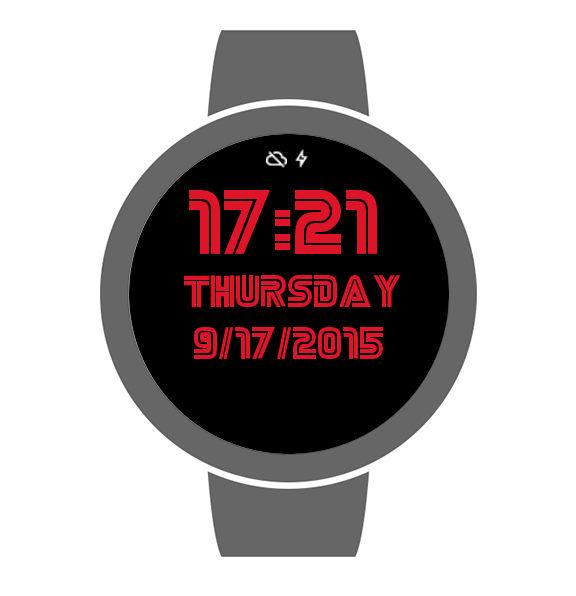
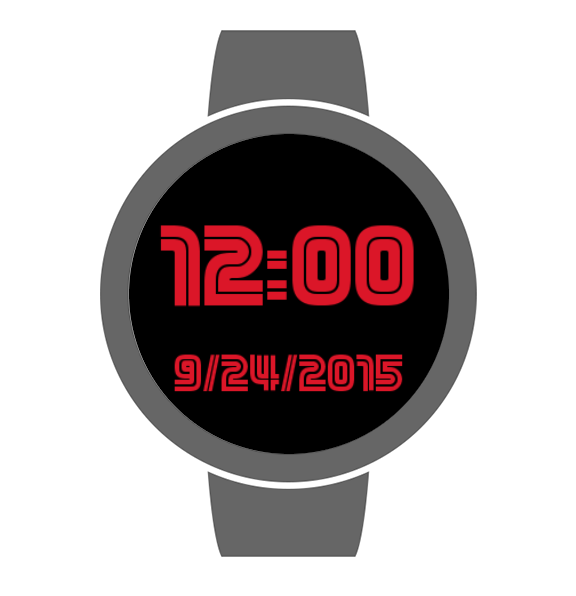
Fix time/date alignment Implement battery optimization by coloring date black and time white when in ambient mode Update screenshots & preview screens

Changed region(s): [[0.2812, 0.302, 0.7188, 0.5134], [0.2812, 0.5436, 0.7188, 0.6644], [0.4688, 0.2416, 0.5312, 0.302]]

diff --git a/app/src/main/java/com/trevorhalvorson/hellofriendwatchface/HelloFriendWatchFace.java b/app/src/main/java/com/trevorhalvorson/hellofriendwatchface/HelloFriendWatchFace.java
@@ -22,6 +22,7 @@ import android.content.Intent;
 import android.content.IntentFilter;
 import android.content.res.Resources;
 import android.graphics.Canvas;
+import android.graphics.Color;
 import android.graphics.Paint;
 import android.graphics.Rect;
 import android.graphics.Typeface;
@@ -102,15 +103,15 @@ public class HelloFriendWatchFace extends CanvasWatchFaceService {
         SimpleDateFormat mDayOfWeekFormat;
         java.text.DateFormat mDateFormat;
 
-        float mXOffset;
-        float mYOffset;
-        float mLineHeight;
+        float mTimeOffset;
+        float mDateOffset;
 
         /**
          * Whether the display supports fewer bits for each color in ambient mode. When true, we
          * disable anti-aliasing in ambient mode.
          */
         boolean mLowBitAmbient;
+        boolean mBurnInProtection;
 
         @Override
         public void onCreate(SurfaceHolder holder) {
@@ -125,8 +126,8 @@ public class HelloFriendWatchFace extends CanvasWatchFaceService {
                     .setShowSystemUiTime(false)
                     .build());
             Resources resources = HelloFriendWatchFace.this.getResources();
-            mYOffset = resources.getDimension(R.dimen.digital_y_offset);
-            mLineHeight = resources.getDimension(R.dimen.digital_line_height);
+            mTimeOffset = resources.getDimension(R.dimen.digital_time_y_offset);
+            mDateOffset = resources.getDimension(R.dimen.digital_date_y_offset);
 
             mBackgroundPaint = new Paint();
             mBackgroundPaint.setColor(resources.getColor(R.color.digital_background));
@@ -147,7 +148,6 @@ public class HelloFriendWatchFace extends CanvasWatchFaceService {
         public void onDestroy() {
             mUpdateTimeHandler.removeMessages(MSG_UPDATE_TIME);
             super.onDestroy();
-            /*YOU ARE NOT ALONE*/
         }
 
         private Paint createTextPaint(int textColor) {
@@ -211,8 +211,6 @@ public class HelloFriendWatchFace extends CanvasWatchFaceService {
             // Load resources that have alternate values for round watches.
             Resources resources = HelloFriendWatchFace.this.getResources();
             boolean isRound = insets.isRound();
-            mXOffset = resources.getDimension(isRound
-                    ? R.dimen.digital_x_offset_round : R.dimen.digital_x_offset);
             float textSize = resources.getDimension(isRound
                     ? R.dimen.digital_text_size_round : R.dimen.digital_text_size);
             float dateSize = resources.getDimension(R.dimen.digital_date_text_size);
@@ -223,6 +221,7 @@ public class HelloFriendWatchFace extends CanvasWatchFaceService {
         @Override
         public void onPropertiesChanged(Bundle properties) {
             super.onPropertiesChanged(properties);
+            mBurnInProtection = properties.getBoolean(PROPERTY_BURN_IN_PROTECTION, false);
             mLowBitAmbient = properties.getBoolean(PROPERTY_LOW_BIT_AMBIENT, false);
         }
 
@@ -237,7 +236,7 @@ public class HelloFriendWatchFace extends CanvasWatchFaceService {
             super.onAmbientModeChanged(inAmbientMode);
             if (mAmbient != inAmbientMode) {
                 mAmbient = inAmbientMode;
-                if (mLowBitAmbient) {
+                if (mBurnInProtection || mLowBitAmbient) {
                     mTextPaint.setAntiAlias(!inAmbientMode);
                     mDatePaint.setAntiAlias(!inAmbientMode);
                 }
@@ -254,21 +253,31 @@ public class HelloFriendWatchFace extends CanvasWatchFaceService {
             // Draw the background.
             canvas.drawRect(0, 0, bounds.width(), bounds.height(), mBackgroundPaint);
 
-            // Draw H:MM
-            mTime.setToNow();
-            String text = mAmbient
-                    ? String.format("%d:%02d", mTime.hour, mTime.minute)
-                    : String.format("%d:%02d", mTime.hour, mTime.minute);
-            canvas.drawText(text, mXOffset, mYOffset, mTextPaint);
+            boolean ambientMode = isInAmbientMode();
+            if (!ambientMode) {
+                // Date MM/DD/YYYY
+                String dateText = mDateFormat.format(mDate);
+                float dateXOffset = computeXOffset(dateText, mDatePaint, bounds);
+                canvas.drawText(
+                        dateText,
+                        dateXOffset, mDateOffset, mDatePaint);
 
-            // Day of week
-            canvas.drawText(
-                    mDayOfWeekFormat.format(mDate),
-                    mXOffset - 5, mYOffset + mLineHeight, mDatePaint);
-            // Date
-            canvas.drawText(
-                    mDateFormat.format(mDate),
-                    mXOffset + 5, mYOffset + mLineHeight * 2, mDatePaint);
+                mTextPaint.setColor(getResources().getColor(R.color.digital_text));
+            } else {
+                mTextPaint.setColor(Color.WHITE);
+            }
+
+            // Time HH:MM
+            mTime.setToNow();
+            String text = String.format("%d:%02d", mTime.hour, mTime.minute);
+            float timeXOffset = computeXOffset(text, mTextPaint, bounds);
+            canvas.drawText(text, timeXOffset, mTimeOffset, mTextPaint);
+        }
+
+        private float computeXOffset(String text, Paint paint, Rect watchBounds) {
+            float centerX = watchBounds.exactCenterX();
+            float timeLength = paint.measureText(text);
+            return centerX - (timeLength / 2.0f);
         }
 
         /**
